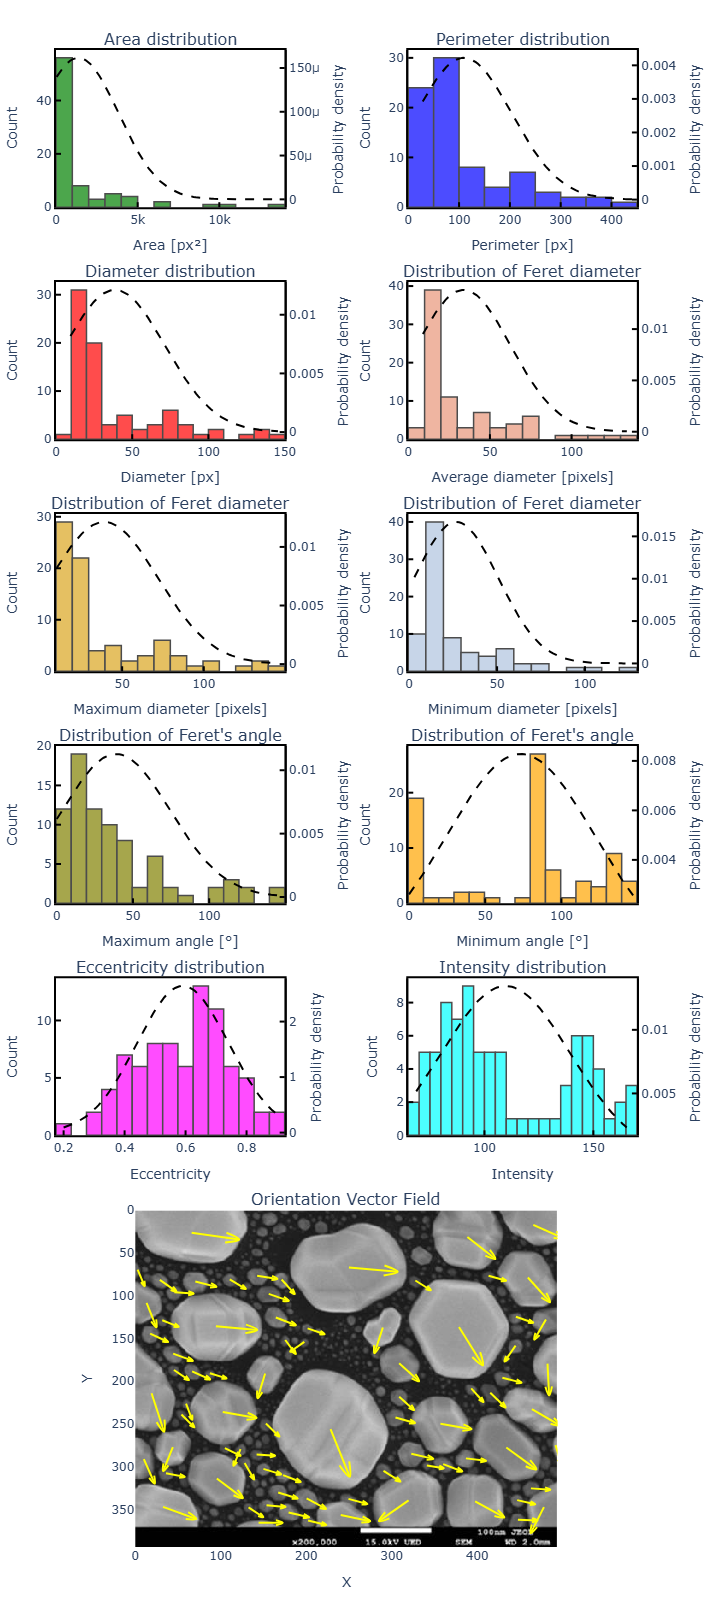
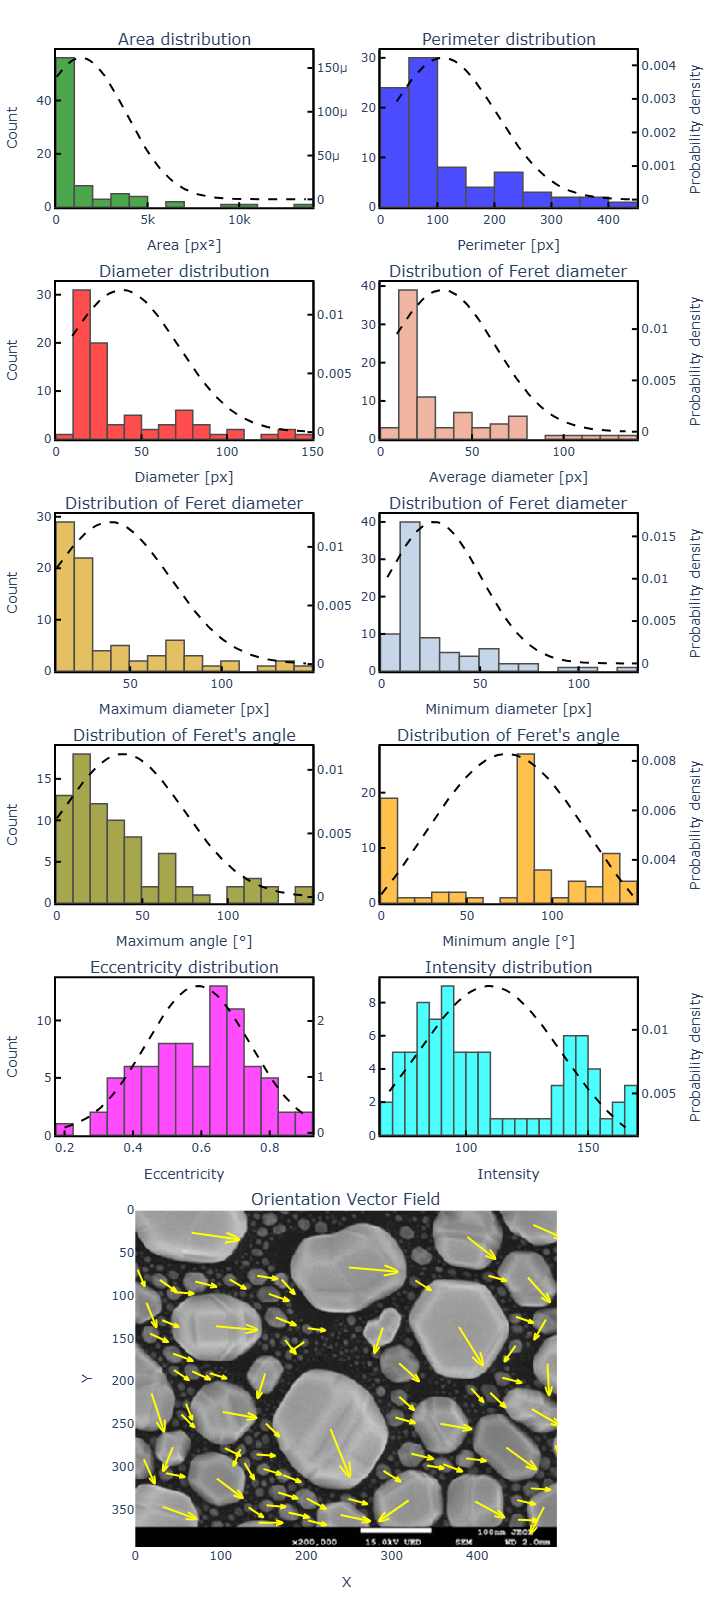
Crayons corrections

diff --git a/particleanalyzer/core/ui.py b/particleanalyzer/core/ui.py
@@ -32,7 +32,7 @@ def create_interface():
 
     with demo:
         with gr.Column(elem_id="app-container"):
-            gr.Markdown("# 🔎 ParticleAnalyzer")
+            gr.Markdown("# 🔎 ParticleAnalyzer v0.1.21")
             gr.Markdown(i18n("При помощи данного инструмента можно анализировать размерные характеристики частиц на изображениях SEM.<br>В случае проблем с сегментацией изображения или возникновения ошибок, пожалуйста, направляйте материалы на электронную почту: rybakov-ks@ya.ru"))
             mode_state = gr.State(value=i18n("Тёмный режим"))
             with gr.Tabs():
@@ -82,19 +82,6 @@ def create_interface():
                             inputs=in_image,
                             label=i18n('Примеры')
                         )
-                    with gr.Row(visible=False) as im_example_row:
-                        gr.Examples(
-                            examples=[
-                                'https://raw.githubusercontent.com/rybakov-ks/ParticleAnalyzer/main/example/100%20r-.jpg',
-                                'https://raw.githubusercontent.com/rybakov-ks/ParticleAnalyzer/main/example/Tv30_1.png',
-                                'https://raw.githubusercontent.com/rybakov-ks/ParticleAnalyzer/main/example/A02-1.bmp',
-                                'https://raw.githubusercontent.com/rybakov-ks/ParticleAnalyzer/main/example/Rec-Cu-Ni-Powder_250x_5_SE_V1_png.jpg',
-                                'https://raw.githubusercontent.com/rybakov-ks/ParticleAnalyzer/main/example/Resolution%20in%20SEM%201.jpg',
-                                'https://raw.githubusercontent.com/rybakov-ks/ParticleAnalyzer/main/example/left_half.jpg'
-                            ],
-                            inputs=im,
-                            label=i18n('Примеры')
-                        )
                     with gr.Row(visible=False) as scale_input_row:
                         scale_input = gr.Number(label=i18n("Instrument scale in µm"), value=1.0)
                     with gr.Row():
@@ -114,7 +101,7 @@ def create_interface():
                             elem_id="dataframe-table2",
                             show_copy_button=True
                         )
-                    with gr.Row():
+                    with gr.Row(visible=False):
                         # Таблица с характеристиками
                         output_table = gr.Dataframe(
                             value=empty_df2,
@@ -167,9 +154,6 @@ def create_interface():
                             step=0.01,
                             label=i18n("Порог перекрытия (IoU)")
                         )
-                    with gr.Row() as solution_row:
-                        # Переключатель разрешения
-                        solution = gr.Radio(("Original", "640x640", "1024x1024"), value="1024x1024", label=i18n("Разрешение изображения"))
                     with gr.Row():
                         sahi_mode = gr.Checkbox(label=i18n("Включить"), info=i18n("Включить обработку с разбиением на фрагменты (SAHI)?"))       
                     with gr.Row(visible=False) as slice_row:
@@ -188,6 +172,9 @@ def create_interface():
                             value=0.1,
                             step=0.01, 
                             label=i18n("Перекрытие по ширине"))
+                    with gr.Row() as solution_row:
+                        # Переключатель разрешения
+                        solution = gr.Radio(("Original", "640x640", "1024x1024"), value="1024x1024", label=i18n("Разрешение изображения"))
                     with gr.Row() as segment_mode_row:
                         segment_mode = gr.Checkbox(label=i18n("Включить"), info=i18n("Включить режим анализа отдельных частиц?")) 
                     with gr.Row() as number_detections_row:

diff --git a/particleanalyzer/core/languages.py b/particleanalyzer/core/languages.py
@@ -94,9 +94,9 @@ translations = {
         'Dₘₐₓ [мкм]': 'Dₘₐₓ [µm]',
         'Dₘᵢₙ [мкм]': 'Dₘᵢₙ [µm]',
         'Dₘₑₐₙ [мкм]': 'Dₘₑₐₙ [µm]',
-        'Dₘₐₓ [пикс]': 'Dₘₐₓ [pixels]',
-        'Dₘᵢₙ [пикс]': 'Dₘᵢₙ [pixels]',
-        'Dₘₑₐₙ [пикс]': 'Dₘₑₐₙ [pixels]',
+        'Dₘₐₓ [пикс]': 'Dₘₐₓ [px]',
+        'Dₘᵢₙ [пикс]': 'Dₘᵢₙ [px]',
+        'Dₘₑₐₙ [пикс]': 'Dₘₑₐₙ [px]',
         'θₘₐₓ [°]': 'θₘₐₓ [°]',
         'θₘᵢₙ [°]': 'θₘᵢₙ [°]',  
         'Включить отображение диаметров Ферета?': 'Enable display of ferret diameters?',
@@ -105,9 +105,9 @@ translations = {
         'Средний диаметр [мкм]': 'Average diameter [µm]',
         'Максимальный диаметр [мкм]': 'Maximum diameter [µm]',
         'Минимальный диаметр [мкм]': 'Minimum diameter [µm]',
-        'Средний диаметр [пикс]': 'Average diameter [pixels]',
-        'Максимальный диаметр [пикс]': 'Maximum diameter [pixels]',
-        'Минимальный диаметр [пикс]': 'Minimum diameter [pixels]',
+        'Средний диаметр [пикс]': 'Average diameter [px]',
+        'Максимальный диаметр [пикс]': 'Maximum diameter [px]',
+        'Минимальный диаметр [пикс]': 'Minimum diameter [px]',
         'Максимальный угол [°]': 'Maximum angle [°]',
         'Минимальный угол [°]': 'Minimum angle [°]',
         'Векторное поле ориентации': 'Orientation Vector Field',

diff --git a/particleanalyzer/core/StatisticsBuilder.py b/particleanalyzer/core/StatisticsBuilder.py
@@ -94,7 +94,7 @@ class StatisticsBuilder:
                 [{"secondary_y": True, "colspan": 2}, None] 
             ],
             vertical_spacing=0.05,
-            horizontal_spacing=0.2
+            horizontal_spacing=0.11
         )
 
         if self.scale_selector == self._get_translation('Instrument scale in µm'):
@@ -166,7 +166,7 @@ class StatisticsBuilder:
 
         # Обновляем оси только для текущего подграфика
         fig.update_yaxes(
-            title_text=self._get_translation("Количество"), 
+            title_text=self._get_translation("Количество") if col == 1 else "", 
             row=row, col=col, 
             automargin=True,
             mirror=True, linewidth=2, linecolor='black',
@@ -174,7 +174,7 @@ class StatisticsBuilder:
             showgrid=False
         )
         fig.update_yaxes(
-            title_text=self._get_translation("Плотность вероятности"), 
+            title_text=self._get_translation("Плотность вероятности") if col == 2 else "", 
             secondary_y=True, 
             row=row, col=col,
             automargin=True,
